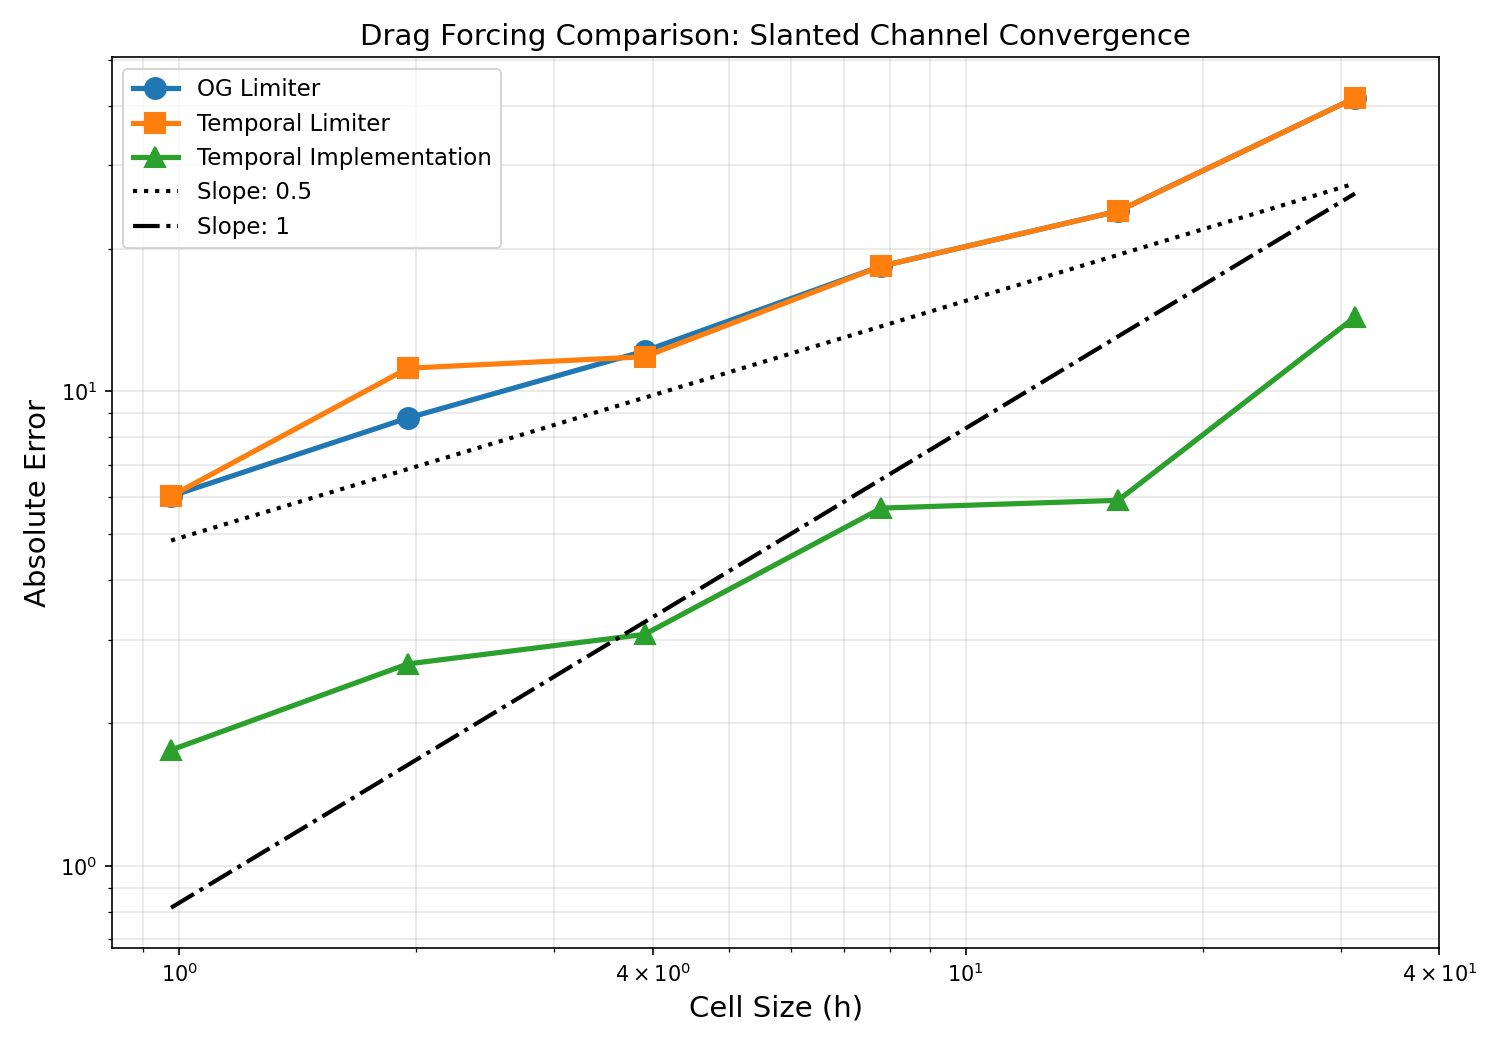
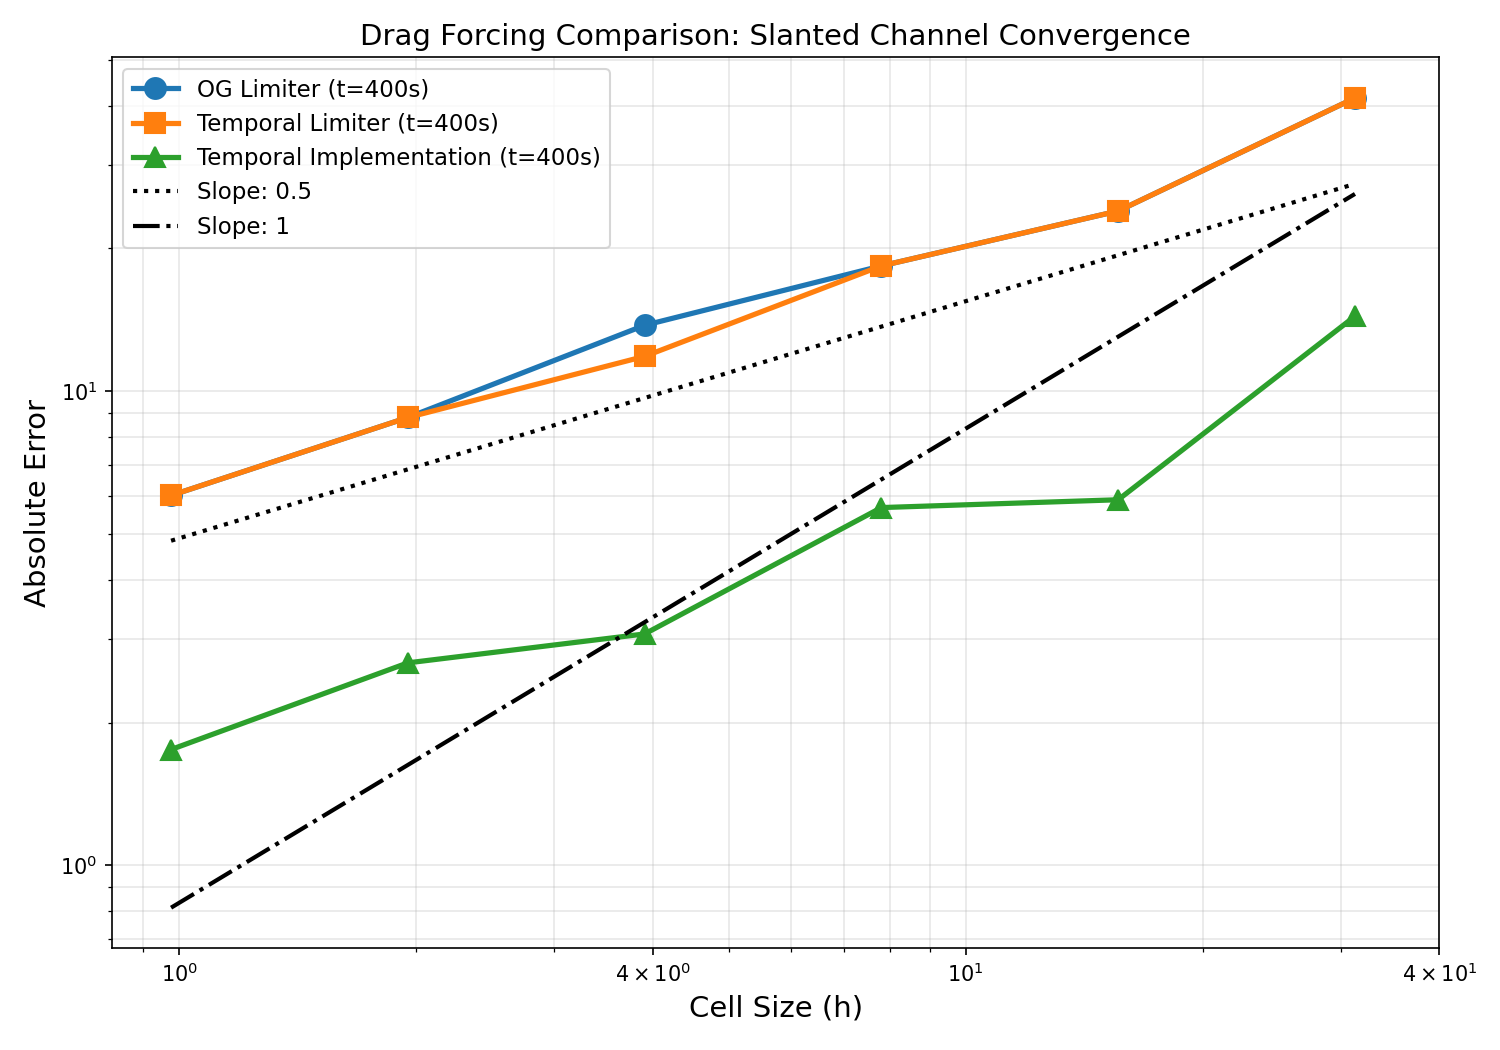
Update figs and README

diff --git a/validation/single_phase_laminar_slanted/README.md b/validation/single_phase_laminar_slanted/README.md
@@ -211,8 +211,8 @@ The plot below shows the relative error across all five grid resolutions for the
 
 ### Velocity Profile Comparison
 
-Comparison of analytical and numerical axial velocity profiles at three locations for the finest grid resolution:
+Comparison of analytical and numerical axial velocity profiles at three locations for the finest grid resolution $(N_x, N_y, N_z) = (1024, 4, 1024)$:
 
 ![Velocity Profile Comparison](figures/slanted-drag-tf1/velocity_profile_comparison.png)
 
-Left column shows the velocity profiles with analytical solution (markers) overlaid on numerical solution (line). Right column shows the error growth along the domain.
+Left column shows the axial velocity profiles with analytical solution (markers) compared to the numerical solution (line). Right column shows the error between the analytical and numerical solutions. The error is calculated as $u_{r}^{error} = u_{r}^{sim} - u_r^{exact}$.
